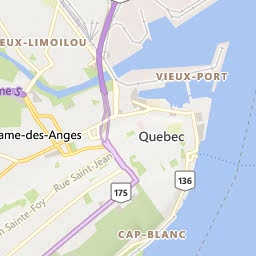
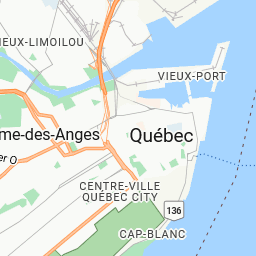
Tool BingMap

diff --git a/BestMap/assets/index.4f208d21.js b/BestMap/assets/index.4f208d21.js
@@ -1,0 +1,5 @@
[1 lines of base64/hex data omitted]
+            <img src='layerIcons/${n[i].options.BMicon}'
+                 title='${m[r].layers[i].options.BMname}'>
+            <div class="BM-Layer-Bt-Name">${m[r].layers[i].options.BMname}</div>
+            </div>`,t++}a+="</div>";var y=`<div class="BM-Layer-Nav-Category">${m[r].category}</div>${a}`;e.innerHTML+=y}}function C(e){var t=0,r,a,n=parseInt(e);isNaN(n)&&(n=0);for(var i=0;i<m.length;i++){a=m[i].layers;for(var s=0;s<a.length;s++)i===0&&s===0&&(r=a[s]),t===n&&(r=a[s]),t++}return r}function Y(e){for(var t=document.getElementsByClassName("BM-Layer-Bt"),r=0;r<t.length;r++){var a=t[r].getElementsByTagName("img")[0];r==e?a.style.borderColor=j:a.style.borderColor="black"}document.getElementById("fLayer").value=C(e).options.BMname,document.getElementById("fLayerID").value=e,d("l",e)}function De(){document.addEventListener("click",function(e){if(e.target.matches(".BM-Layer-Bt img")){var t=e.target.parentElement.id.split("-")[1];O(t)}if(e.target.matches(".BM-Layer-Bt div")){var t=e.target.parentElement.id.split("-")[1];O(t)}},!1)}function f(){return o.options.BMHasMarker?c.getLatLng():o.getCenter()}function Ue(){document.getElementById("btGoOSM").addEventListener("click",function(){var e=f(),t=o.getZoom(),r=`https://www.openstreetmap.org/#map=${t}/${e.lat}/${e.lng}`;window.open(r)}),document.getElementById("btGoGoogle").addEventListener("click",function(){var e=f(),t=`https://www.google.com/maps/search/?api=1&query=${e.lat},${e.lng}`;window.open(t)}),document.getElementById("btGoGoogleEarth").addEventListener("click",function(){var e=f(),t=o.getZoom(),r=b(),a=Math.pow(2,20-t)*4096;console.log(`z=${t} d=${a}`);var n=`https://earth.google.com/web/@${e.lat},${e.lng},${a}d,${-r}h`;window.open(n)}),document.getElementById("btGoBing").addEventListener("click",function(){var e=f(),t=o.getZoom(),r=b(),a=-r,n=`https://www.bing.com/maps?cp=${e.lat}~${e.lng}&lvl=${t}&dir=${a}`;console.log(n),window.open(n)}),document.getElementById("btFlipMarker").addEventListener("click",function(){J()}),document.getElementById("btTrack").addEventListener("click",function(){Xe()}),document.getElementById("btGoHere").addEventListener("click",function(){navigator.geolocation&&navigator.geolocation.getCurrentPosition(Re,ze)}),document.getElementById("shareToClipboard").addEventListener("click",function(){navigator.clipboard.writeText(window.location.href)}),document.getElementById("shareGmap").addEventListener("click",function(){var e=f(),t=`https://www.google.com/maps/search/?api=1&query=${e.lat},${e.lng}`;navigator.clipboard.writeText(t)}),document.getElementById("shareToMail").addEventListener("click",function(){var e=encodeURIComponent(window.location.href),t=encodeURIComponent(o.options.BMTitle),r=`mailto:?subject=${t}&body=${t}%0A${e}`;document.location=r}),document.getElementById("btMeasure").addEventListener("click",function(){D._toggleMeasure(),o.options.BMHasMeasure=!o.options.BMHasMeasure,K(o.options.BMHasMeasure)})}function G(){document.getElementById("btEdit").style.display="inline-block",document.getElementById("btEditSave").style.display="none",document.getElementById("btEditCancel").style.display="none",document.getElementById("fTitle").disabled=!0,document.getElementById("fRot").disabled=!0,document.getElementById("fLat").disabled=!0,document.getElementById("fLng").disabled=!0,document.getElementById("fZoom").disabled=!0}function Fe(){var e,t,r,a,n;document.getElementById("btEdit").addEventListener("click",function(){e=Ne(),t=b(),r=I(),a=k(),n=W(),document.getElementById("btEdit").style.display="none",document.getElementById("btEditSave").style.display="inline-block",document.getElementById("btEditCancel").style.display="inline-block",document.getElementById("fTitle").disabled=!1,document.getElementById("fRot").disabled=!1,document.getElementById("fLat").disabled=!1,document.getElementById("fLng").disabled=!1,document.getElementById("fZoom").disabled=!1}),document.getElementById("btEditSave").addEventListener("click",function(){G();var i=document.getElementById("fTitle").value;i!=e&&F(i);var s=S(document.getElementById("fRot").value);console.log(`newRot: ${s} oldRot: ${t}`),s!=t&&(o.setBearing(s),B(s));var y=Pe(document.getElementById("fLat").value),h=Ae(document.getElementById("fLng").value);(y!=r||h!=a)&&(o.panTo(new L.LatLng(y,h),v),y!=r&&u(y),h!=a&&g(h));var v=$e(document.getElementById("fZoom").value);v!=n&&(o.setZoom(v),w(v))}),document.getElementById("btEditCancel").addEventListener("click",function(){G(),document.getElementById("fTitle").value=e,document.getElementById("fRot").value=t})}function We(e){if(console.log(e),Array.isArray(e.results)&&e.results.length>0){var t=e.results[0],r=t.geometry.lat,a=t.geometry.lng;o.panTo(new L.LatLng(r,a),{}),u(r),g(a)}}function qe(){document.getElementById("fSearch").addEventListener("change",function(){var e=document.getElementById("fSearch").value,t="a1f15d3f6b834c55917fd7e435af418c",r=`https://api.opencagedata.com/geocode/v1/json?q=${e}&key=${t}`;console.log(e),fetch(r).then(a=>a.json()).then(a=>We(a))})}function J(){o.options.BMHasMarker?o.removeLayer(c):(c=new L.Marker(o.getCenter(),{draggable:!0}),c.bindTooltip(o.options.BMTitle),c.on("dragend",function(e){var t=c.getLatLng().lat,r=c.getLatLng().lng;u(t),g(r)}),o.addLayer(c)),o.options.BMHasMarker=!o.options.BMHasMarker,q(o.options.BMHasMarker)}function _(){window.DeviceMotionEvent&&window.DeviceMotionEvent.requestPermission?window.DeviceMotionEvent.requestPermission().then(e=>{e==="granted"&&window.addEventListener("devicemotion",M)}).catch(console.error):window.DeviceOrientationEvent?window.addEventListener("deviceorientationabsolute",M):console.log("Device motion or orientation is not supported by this browser.")}function M(e){let t=null;if(e.rotationRate?t=e.rotationRate.alpha:e.alpha&&(t=e.alpha),t!==null){const r=t;T&&(o.setBearing(r),B(r))}}function Ke(){T=!0,_(),setInterval(_,te)}function Ve(){T=!1,window.DeviceMotionEvent&&window.DeviceMotionEvent.requestPermission?window.removeEventListener("devicemotion",M):window.DeviceOrientationEvent&&window.removeEventListener("deviceorientationabsolute",M)}function Z(){navigator.geolocation?navigator.geolocation.getCurrentPosition(Ye):console.log("Geolocation is not supported by this browser.")}function Ye(e){var t=e.coords.latitude,r=e.coords.longitude;E&&(u(t),g(r),o.panTo({lng:r,lat:t}))}function Je(){E=!0,Z(),U=setInterval(Z,1e4)}function Qe(){E=!1,clearInterval(U)}function Xe(){o.options.BMHasTracker?(L.geotagPhoto.crosshair().removeFrom(o),document.querySelectorAll(".leaflet-geotag-photo-crosshair").forEach(t=>t.remove()),Qe(),Ve()):(L.geotagPhoto.crosshair().addTo(o).on("input",function(e){this.getCrosshairPoint()}),Je(),Ke()),o.options.BMHasTracker=!o.options.BMHasTracker,V(o.options.BMHasTracker)}

diff --git a/BestMap/index.html b/BestMap/index.html
@@ -6,9 +6,10 @@
   <link rel="icon" type="image/svg+xml" href="./assets/bestmaplogo-310.620b69e9.png" />
   <meta name="viewport" content="width=device-width, initial-scale=1.0" />
   <title>BestMap</title>
-  <script type="module" crossorigin src="./assets/index.f3e95f81.js"></script>
+  <script type="module" crossorigin src="./assets/index.4f208d21.js"></script>
   <link rel="stylesheet" href="./assets/index.fb49d45a.css">
 </head>
+
 <body>
   <div id="map">
     <div id="panelID" class="sidepanel" aria-label="side panel" aria-hidden="false">
@@ -44,7 +45,7 @@
             <div class="sidepanel-tab-content" data-tab-content="tab-layer">
               <div id="BM-Layer-Nav-Panel"></div>
             </div>
-             <!--  Info TAB-->
+            <!--  Info TAB-->
             <div class="sidepanel-tab-content" data-tab-content="tab-info">
               <div class="BM-Input">
                 <label for="fTitle">Map Name:</label>
@@ -59,7 +60,7 @@
                 <input type="number" id="fRot" name="fRot" disabled="true" min="0" max="360" step="15">
               </div>
 
-<!--  TO SHOW TEMP VALUE IF  NECESSARY 
+              <!--  TO SHOW TEMP VALUE IF  NECESSARY 
               <div class="BM-Input">
                 <label for="ftmp">tmp:</label>
                 <input type="number" id="ftmp" name="ftmp" disabled="true" >
@@ -68,7 +69,7 @@
 
               <div class="BM-Input">
                 <label for="fLat">Latitude:</label>
-                <input type="number" id="fLat" name="fLat" disabled="true"  min="-90" max="90" step="15">
+                <input type="number" id="fLat" name="fLat" disabled="true" min="-90" max="90" step="15">
               </div>
               <div class="BM-Input">
                 <label for="fLng">Longitude:</label>
@@ -107,7 +108,7 @@
               <div class="BM-Button" id="btGoHere" title="Go tu current position"></div>
               <div class="BM-Button" id="btTrack" title="Track position"></div>
               <div class="BM-Button" id="btMeasure" title="Measure"></div>
-                  <h2>Open in</h2>
+              <h2>Open in</h2>
               <div class="BM-GOURL-Container">
                 <div id="btGoGoogle" class="BM-GOURL-Bt">
                   <img src="./layerIcons/GoogleMap.png">
@@ -123,6 +124,11 @@
                   <img src="./layerIcons/Mapnik.png">
                   <div class="BM-GOURL-Bt-Name">Open in Street Map</div>
                 </div>
+                <div id="btGoBing" class="BM-GOURL-Bt">
+                  <img src="./layerIcons/BingMap.png">
+                  <div class="BM-GOURL-Bt-Name">Open in Bing</div>
+                </div>
+
 
               </div>
 
